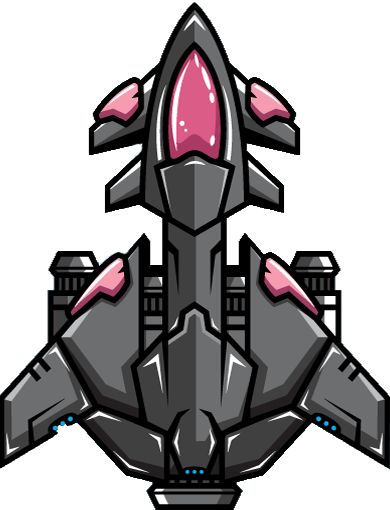
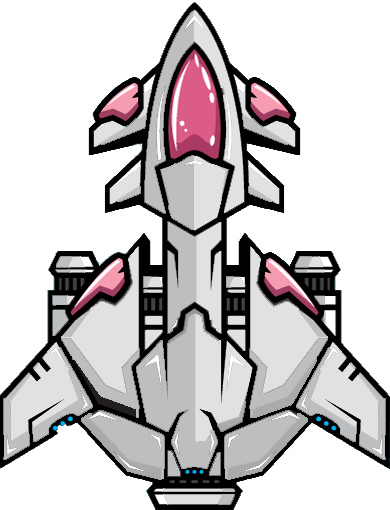
Changed player color to white increase player speed by 50%

diff --git a/src/model/Player.java b/src/model/Player.java
@@ -15,24 +15,24 @@ import javafx.scene.shape.Polygon;
  * @date 2020-01-20
  */
 public class Player extends Polygon {
-    private int x;
-    private int y;
     private boolean dead = false;
     private boolean poweredUp = false;
+    private int speed;
     private int missileCount = 5;
 
     public Player(int x, int y, double... points) {
         super(points);
         setTranslateX(x);
         setTranslateY(y);
+        this.speed = 15;
         getPoints().addAll(17.5, 0.0, 0.0, 35.0, 35.0, 35.0);
         setImage("/Users/david/Develop/IntelliJ-Workspace/SquareInvaders/pictures/player.png");
     }
 
 
     public void moveLeft() {
-        if (getTranslateX() - 10 > 0) {
-            setTranslateX(getTranslateX() - 10);
+        if (getTranslateX() - speed > 0) {
+            setTranslateX(getTranslateX() - speed);
         }
         else {
             setTranslateX(0);
@@ -40,8 +40,8 @@ public class Player extends Polygon {
     }
 
     public void moveRight() {
-        if(getTranslateX() + 10 < 565) {
-            setTranslateX(getTranslateX() + 10);
+        if(getTranslateX() + speed < 565) {
+            setTranslateX(getTranslateX() + speed);
         }
         else {
             setTranslateX(565);
